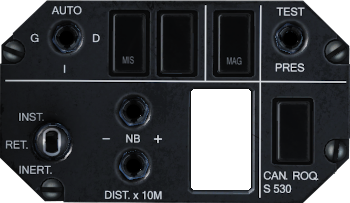
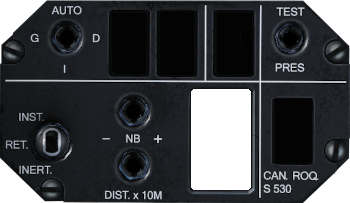
Added the PCA panel

diff --git a/Helios/Interfaces/DCS/M2000C/M2000CInterface.cs b/Helios/Interfaces/DCS/M2000C/M2000CInterface.cs
@@ -161,7 +161,10 @@ namespace GadrocsWorkshop.Helios.Interfaces.DCS.M2000C
             AddFunction(new ScaledNetworkValue(this, "354", 1d, "Fuel Panel", "Total Fuel Quantity (Tens)", "Internal Fuel Quantity (Tens).", "0-9", BindingValueUnits.Numeric));
             AddFunction(new ScaledNetworkValue(this, "358", 1.55d, "Fuel Panel", "Internal Fuel Quantity Needle", "Internal Fuel Quantity.", "0-7", BindingValueUnits.Numeric));
             AddFunction(new ScaledNetworkValue(this, "359", 1.55d, "Fuel Panel", "Total Fuel Quantity Needle", "Total Fuel Quantity.", "0-7", BindingValueUnits.Numeric));
-            AddFunction(new Axis(this, MISCPANELS, "357", "3357", 0d, 0d, 1d, "Fuel Panel", "Fuel Crossfeed Switch"));
+//            AddFunction(new Axis(this, MISCPANELS, "357", "3357", 0d, 0d, 1d, "Fuel Panel", "Fuel Crossfeed Switch"));
+            AddFunction(new Switch(this, MISCPANELS, "357", new SwitchPosition[] {
+                new SwitchPosition("0.0", "Open", "3357"), new SwitchPosition("1.0", "Close", "3357") },
+                "Fuel Panel", "Fuel Crossfeed Switch", "%0.1f"));
             #endregion
             #region  Landing Gear
             AddFunction(new FlagValue(this, "410", "Landing Gear Panel", "A", "A Warnlamp"));
@@ -391,18 +394,35 @@ namespace GadrocsWorkshop.Helios.Interfaces.DCS.M2000C
             AddFunction(new PushButton(this, PCA_PPA, "3259", "259", "PCA/PPA", "Weapons Selector Button 4"));    // elements["PTN_259"] = default_button(_("Weapons Selector Button 4"), devices.PCA_PPA, device_commands.Button_259, 259, 0, 1)
             AddFunction(new PushButton(this, PCA_PPA, "3262", "262", "PCA/PPA", "Weapons Selector Button 5"));    // elements["PTN_262"] = default_button(_("Weapons Selector Button 5"), devices.PCA_PPA, device_commands.Button_262, 262, 0, 1)
                                                                                                                   // 
-            AddFunction(new PushButton(this, PCA_PPA, "3266", "266", "PCA/PPA", "S530 Standby"));    // elements["PTN_266"] = default_button(_("S530 Standby"), devices.PCA_PPA, device_commands.Button_266, 266, 0, 1)
-            AddFunction(new PushButton(this, PCA_PPA, "3269", "269", "PCA/PPA", "AUTO/MAN Button"));    // elements["PTN_269"] = default_button(_("AUTO/MAN Button"), devices.PCA_PPA, device_commands.Button_269, 269, 0, 1)
-            AddFunction(new PushButton(this, PCA_PPA, "3272", "272", "PCA/PPA", "MAGIC Standby"));    // elements["PTN_272"] = default_button(_("MAGIC Standby"), devices.PCA_PPA, device_commands.Button_272, 272, 0, 1)
-            AddFunction(new PushButton(this, PCA_PPA, "3279", "279", "PCA/PPA", "530D/Rockets/Guns Firing Mode Selector"));    // elements["PTN_279"] = default_button(_("530D/Rockets/Guns Firing Mode Selector"), devices.PCA_PPA, device_commands.Button_279, 279, 0, 1)
+            AddFunction(new PushButton(this, PCA_PPA, "3266", "266", "PPA Panel", "S530 Missile Enabler Button"));    // elements["PTN_266"] = default_button(_("S530 Standby"), devices.PCA_PPA, device_commands.Button_266, 266, 0, 1)
+            AddFunction(new PushButton(this, PCA_PPA, "3269", "269", "PPA Panel", "Missile Fire Mode Selector"));    // elements["PTN_269"] = default_button(_("AUTO/MAN Button"), devices.PCA_PPA, device_commands.Button_269, 269, 0, 1)
+            AddFunction(new PushButton(this, PCA_PPA, "3272", "272", "PPA Panel", "Magic II Missile Enabler Button"));    // elements["PTN_272"] = default_button(_("MAGIC Standby"), devices.PCA_PPA, device_commands.Button_272, 272, 0, 1)
+            AddFunction(new PushButton(this, PCA_PPA, "3279", "279", "PPA Panel", "Guns/Rockets/Missiles Firing Mode Selector"));    // elements["PTN_279"] = default_button(_("530D/Rockets/Guns Firing Mode Selector"), devices.PCA_PPA, device_commands.Button_279, 279, 0, 1)
 
-            AddFunction(new Switch(this, PCA_PPA, "265", new SwitchPosition[] { }, "PCA/PPA", "Missile Selector Switch", "%0.1f"));    // elements["PTN_265"] = default_3_position_tumb(_("Missile Selector Switch"), devices.PCA_PPA, device_commands.Button_265, 265, false, false)
-            //AddFunction(Switch.CreateToggleSwitch(this, PCA_PPA, "3275", "275", "PCA/PPA", "PPA Test Switch", "%0.1f"));    // elements["PTN_275"] = default_2_way_spring_switch(_("PPA Test Switch"), devices.PCA_PPA, device_commands.Button_275, 275, false)
-            AddFunction(new Switch(this, PCA_PPA, "276", new SwitchPosition[] { }, "PCA/PPA", "Bomb Fuze Selector Switch", "%0.1f"));    // elements["PTN_276"] = multiposition_switch_limited(_("Bomb Fuze Selector Switch"), devices.PCA_PPA, device_commands.Button_276, 276, 3, 0.5, true, 0)
-                                                                                                                                         //AddFunction(Switch.CreateToggleSwitch(this, PCA_PPA, "3277", "277", "PCA/PPA", "Bomb Release Quantity Selector Switch", "%0.1f"));    // elements["PTN_277"] = default_2_way_spring_switch(_("Bomb Release Quantity Selector Switch"), devices.PCA_PPA, device_commands.Button_277, 277, true)
-                                                                                                                                         //AddFunction(Switch.CreateToggleSwitch(this, PCA_PPA, "3278", "278", "PCA/PPA", "Bomb Release Interval Selector Switch", "%0.1f"));    // elements["PTN_278"] = default_2_way_spring_switch(_("Bomb Release Interval Selector Switch"), devices.PCA_PPA, device_commands.Button_278, 278, true)
-                                                                                                                                         // 
-
+            AddFunction(new Switch(this, PCA_PPA, "265", new SwitchPosition[] {
+                new SwitchPosition("0.0", "Gauche","3265"),
+                new SwitchPosition("1.0", "Droite","3265"),
+                new SwitchPosition("0.5", "Auto","3265"),
+                }, "PPA Panel", "Missile Selector Switch", "%0.1f"));    // elements["PTN_265"] = default_3_position_tumb(_("Missile Selector Switch"), devices.PCA_PPA, device_commands.Button_265, 265, false, false)
+            AddFunction(new Switch(this, PCA_PPA, "275", new SwitchPosition[] {
+                new SwitchPosition("0.0", "TEST","3275"),
+                new SwitchPosition("1.0", "PRES","3275"),
+            }, "PPA Panel", "Test Switch", "%0.1f"));    // elements["PTN_276"] = multiposition_switch_limited(_("Bomb Fuze Selector Switch"), devices.PCA_PPA, device_commands.Button_276, 276, 3, 0.5, true, 0)
+            AddFunction(new Switch(this, PCA_PPA, "276", new SwitchPosition[] {
+                new SwitchPosition("0.0", "INST.","3276"),
+                new SwitchPosition("1.0", "RET.","3276"),
+                new SwitchPosition("0.5", "INERT.","3276"),
+            }, "PPA Panel", "Bomb Fuse Selector", "%0.1f"));    // elements["PTN_276"] = multiposition_switch_limited(_("Bomb Fuze Selector Switch"), devices.PCA_PPA, device_commands.Button_276, 276, 3, 0.5, true, 0)
+            AddFunction(new Switch(this, PCA_PPA, "277", new SwitchPosition[] {
+                new SwitchPosition("0.0", "-","3277"),
+                new SwitchPosition("1.0", "+","3277"),
+                new SwitchPosition("0.5", "Neutre","3277"),
+            }, "PPA Panel", "Release Quantity Selector", "%0.1f"));
+            AddFunction(new Switch(this, PCA_PPA, "278", new SwitchPosition[] {
+                new SwitchPosition("0.0", "-","3278"),
+                new SwitchPosition("1.0", "+","3278"),
+                new SwitchPosition("0.5", "Neutre","3278"),
+            }, "PPA Panel", "Bomb Drop Interval", "%0.1f"));
             #endregion
             #region  AFCS
             AddFunction(new PushButton(this, AFCS, "3282", "282", "AFCS", "Autopilot Master Button"));    // elements["PTN_282"] = default_button(_("Autopilot Master Button"), devices.AFCS, device_commands.Button_282, 282, 0, 1)

diff --git a/Helios/Gauges/M2000C/PPAPanel/PPA_Panel.cs b/Helios/Gauges/M2000C/PPAPanel/PPA_Panel.cs
@@ -1,0 +1,183 @@
+//  Copyright 2014 Craig Courtney
+//    
+//  Helios is free software: you can redistribute it and/or modify
+//  it under the terms of the GNU General Public License as published by
+//  the Free Software Foundation, either version 3 of the License, or
+//  (at your option) any later version.
+//
+//  Helios is distributed in the hope that it will be useful,
+//  but WITHOUT ANY WARRANTY; without even the implied warranty of
+//  MERCHANTABILITY or FITNESS FOR A PARTICULAR PURPOSE.  See the
+//  GNU General Public License for more details.
+//
+//  You should have received a copy of the GNU General Public License
+//  along with this program.  If not, see <http://www.gnu.org/licenses/>.
+
+namespace GadrocsWorkshop.Helios.Gauges.M2000C
+{
+    using GadrocsWorkshop.Helios.ComponentModel;
+    using GadrocsWorkshop.Helios.Controls;
+    using System;
+    using System.Globalization;
+    using System.Windows;
+    using System.Windows.Media;
+
+    [HeliosControl("HELIOS.M2000C.PPA_PANEL", "PPA Panel", "M2000C Gauges", typeof(M2000CDeviceRenderer))]
+    class M2000C_PPAPanel : M2000CDevice
+    {
+        private static readonly Rect SCREEN_RECT = new Rect(0, 0, 350, 203);
+        private string _interfaceDeviceName = "PPA Panel";
+        private Rect _scaledScreenRect = SCREEN_RECT;
+
+        public M2000C_PPAPanel()
+            : base("PPA Panel", new Size(350, 203))
+        {
+            Add3PosnToggle(
+                name: "Missile Selector Switch",
+                posn: new Point(48, 30),
+                size: new Size(14, 40),
+                image: "{M2000C}/Images/PPAPanel/small-black-",
+                switchType: ThreeWayToggleSwitchType.OnOnOn,
+                defaultPosition: ThreeWayToggleSwitchPosition.Two,
+                interfaceDevice: _interfaceDeviceName,
+                interfaceElement: "Missile Selector Switch",
+                fromCenter: true,
+                horizontal: true
+                );
+            Add3PosnToggle(
+                name: "Test Switch",
+                posn: new Point(284, 17),
+                size: new Size(14, 40),
+                image: "{M2000C}/Images/PPAPanel/small-black-",
+                switchType: ThreeWayToggleSwitchType.MomOnMom,
+                defaultPosition: ThreeWayToggleSwitchPosition.Two,
+                interfaceDevice: _interfaceDeviceName,
+                interfaceElement: "Test Switch",
+                fromCenter: true,
+                horizontal: false
+                );
+            Add3PosnToggle(
+                name: "Bomb Fuse Selector",
+                posn: new Point(40, 115),
+                size: new Size(24, 50),
+                image: "{M2000C}/Images/Switches/black-circle-",
+                switchType: ThreeWayToggleSwitchType.OnOnOn,
+                defaultPosition: ThreeWayToggleSwitchPosition.Three,
+                interfaceDevice: _interfaceDeviceName,
+                interfaceElement: "Bomb Fuse Selector",
+                fromCenter: true,
+                horizontal: false
+                );
+            Add3PosnToggle(
+                name: "Release Quantity Selector",
+                posn: new Point(115, 104),
+                size: new Size(14, 40),
+                image: "{M2000C}/Images/PPAPanel/small-black-",
+                switchType: ThreeWayToggleSwitchType.MomOnMom,
+                defaultPosition: ThreeWayToggleSwitchPosition.Two,
+                interfaceDevice: _interfaceDeviceName,
+                interfaceElement: "Release Quantity Selector",
+                fromCenter: true,
+                horizontal: true
+                );
+            Add3PosnToggle(
+                name: "Bomb Drop Interval",
+                posn: new Point(115, 157),
+                size: new Size(14, 40),
+                image: "{M2000C}/Images/PPAPanel/small-black-",
+                switchType: ThreeWayToggleSwitchType.MomOnMom,
+                defaultPosition: ThreeWayToggleSwitchPosition.Two,
+                interfaceDevice: _interfaceDeviceName,
+                interfaceElement: "Bomb Drop Interval",
+                fromCenter: true,
+                horizontal: true
+                );
+
+            AddPushButton("S530 Missile Enabler Button", new Point(113, 12), "ppa-p-mis");
+            AddPushButton("Missile Fire Mode Selector", new Point(161, 12), "ppa-aut-man");
+            AddPushButton("Magic II Missile Enabler Button", new Point(216, 12), "ppa-p-mag");
+            AddPushButton("Guns/Rockets/Missiles Firing Mode Selector", new Point(275, 100), "ppa-tot-par");
+
+        }
+
+        #region Properties
+
+        public override string BezelImage
+        {
+            get { return "{M2000C}/Images/PPAPanel/ppa-panel.png"; }
+        }
+
+        #endregion
+
+        protected override void OnPropertyChanged(PropertyNotificationEventArgs args)
+        {
+            if (args.PropertyName.Equals("Width") || args.PropertyName.Equals("Height"))
+            {
+                double scaleX = Width / NativeSize.Width;
+                double scaleY = Height / NativeSize.Height;
+                _scaledScreenRect.Scale(scaleX, scaleY);
+            }
+            base.OnPropertyChanged(args);
+        }
+
+        private void Add3PosnToggle(string name, Point posn, Size size, string image, ThreeWayToggleSwitchType switchType, ThreeWayToggleSwitchPosition defaultPosition,
+            string interfaceDevice, string interfaceElement, bool fromCenter, bool horizontal)
+        {
+            AddThreeWayToggle(
+                name: name,
+                pos: posn,
+                size: size,
+                positionOneImage: image + "up.png",
+                positionTwoImage: image + "mid.png",
+                positionThreeImage: image + "down.png",
+                defaultPosition: defaultPosition,
+                switchType: switchType,
+                interfaceDeviceName: interfaceDevice,
+                interfaceElementName: interfaceElement,
+                horizontal: horizontal,
+                horizontalRender: horizontal,
+                clickType: ClickType.Touch,
+                fromCenter: false
+                );
+        }
+
+        private void AddPushButton(string name, Point posn, string imagePrefix)
+        {
+            AddIndicatorPushButton(name: name,
+                pos: posn,
+                size: new Size(36, 61),
+                image: "{M2000C}/Images/PPAPanel/" + imagePrefix + "-off.png",
+                pushedImage: "{M2000C}/Images/PPAPanel/" + imagePrefix + "-off.png",
+                textColor: Color.FromArgb(0xff, 0x7e, 0xde, 0x72),
+                onTextColor: Color.FromArgb(0xff, 0x7e, 0xde, 0x72),
+                font: "",
+                onImage: "{M2000C}/Images/PPAPanel/" + imagePrefix + "-on.png",
+                withText: false);
+        }
+
+        public override bool HitTest(Point location)
+        {
+            if (_scaledScreenRect.Contains(location))
+            {
+                return false;
+            }
+
+            return true;
+        }
+
+        public override void MouseDown(Point location)
+        {
+            // No-Op
+        }
+
+        public override void MouseDrag(Point location)
+        {
+            // No-Op
+        }
+
+        public override void MouseUp(Point location)
+        {
+            // No-Op
+        }
+    }
+}

diff --git a/Helios/CompositeVisual.cs b/Helios/CompositeVisual.cs
@@ -658,7 +658,7 @@ namespace GadrocsWorkshop.Helios
         }
 
         protected IndicatorPushButton AddIndicatorPushButton(string name, Point pos, Size size,
-            string image, string pushedImage, Color textColor, Color onTextColor, string font, bool withText = true)
+            string image, string pushedImage, Color textColor, Color onTextColor, string font, string onImage = "", bool withText = true)
         {
             string componentName = GetComponentName(name);
             IndicatorPushButton indicator = new Helios.Controls.IndicatorPushButton
@@ -669,6 +669,7 @@ namespace GadrocsWorkshop.Helios
                 Height = size.Height,
                 Image = image,
                 PushedImage = pushedImage,
+                IndicatorOnImage = onImage,
                 Name = componentName,
                 OnTextColor = onTextColor,
                 TextColor = textColor
@@ -709,7 +710,8 @@ namespace GadrocsWorkshop.Helios
             string positionTwoImage = "{Helios}/Images/Toggles/round-norm.png",
             string positionThreeImage = "{Helios}/Images/Toggles/round-down.png",
             ClickType clickType = ClickType.Swipe,
-            bool horizontal = false)
+            bool horizontal = false,
+            bool horizontalRender = false)
         {
             string componentName = GetComponentName(name);
             ThreeWayToggleSwitch toggle = new ThreeWayToggleSwitch
@@ -726,7 +728,15 @@ namespace GadrocsWorkshop.Helios
                 Name = componentName
             };
             toggle.ClickType = clickType;
-            if(horizontal)
+            if (horizontal)
+            {
+                toggle.Orientation = ToggleSwitchOrientation.Horizontal;
+            }
+            else
+            {
+                toggle.Orientation = ToggleSwitchOrientation.Vertical;
+            }
+            if (horizontalRender)
             {
                 toggle.Rotation = HeliosVisualRotation.CW;
                 toggle.Orientation = ToggleSwitchOrientation.Horizontal;

diff --git a/Helios/Gauges/M2000C/FuelPanel/Fuel_Panel.cs b/Helios/Gauges/M2000C/FuelPanel/Fuel_Panel.cs
@@ -47,7 +47,8 @@ namespace GadrocsWorkshop.Helios.Gauges.M2000C
             AddIndicator("left-v", "v", new Point(column2, row4), new Size(21, 21));
             AddIndicator("right-v", "v", new Point(column4, row4), new Size(21, 21));
 
-            AddPot();
+//            AddPot();
+            AddSwitch("Fuel CrossFeed Switch", new Point(112, 360), ToggleSwitchPosition.Two, ToggleSwitchType.OnOn);
 
             AddRectangleFill("Internal Fuel Quantity Needle", new Point(41, row5));
             AddRectangleFill("Total Fuel Quantity Needle", new Point(192, row5));
@@ -92,6 +93,23 @@ namespace GadrocsWorkshop.Helios.Gauges.M2000C
                 interfaceElementName: name,
                 fromCenter: false,
                 withText: false); //added in Composite Visual as an optional value with a default value set to true
+        }
+
+        private void AddSwitch(string name, Point posn, ToggleSwitchPosition defaultPosition, ToggleSwitchType defaultType)
+        {
+            AddToggleSwitch(name: name,
+                posn: posn,
+                size: new Size(45, 45),
+                defaultPosition: defaultPosition,
+                positionOneImage: "{M2000C}/Images/FuelPanel/fuel-transfer-knob-on.png",
+                positionTwoImage: "{M2000C}/Images/FuelPanel/fuel-transfer-knob-off.png",
+                defaultType: defaultType,
+                interfaceDeviceName: _interfaceDeviceName,
+                interfaceElementName: name,
+                horizontal: true,
+                horizontalRender: true,
+                nonClickableZones: null,
+                fromCenter: true);
         }
 
         private void AddPot()
